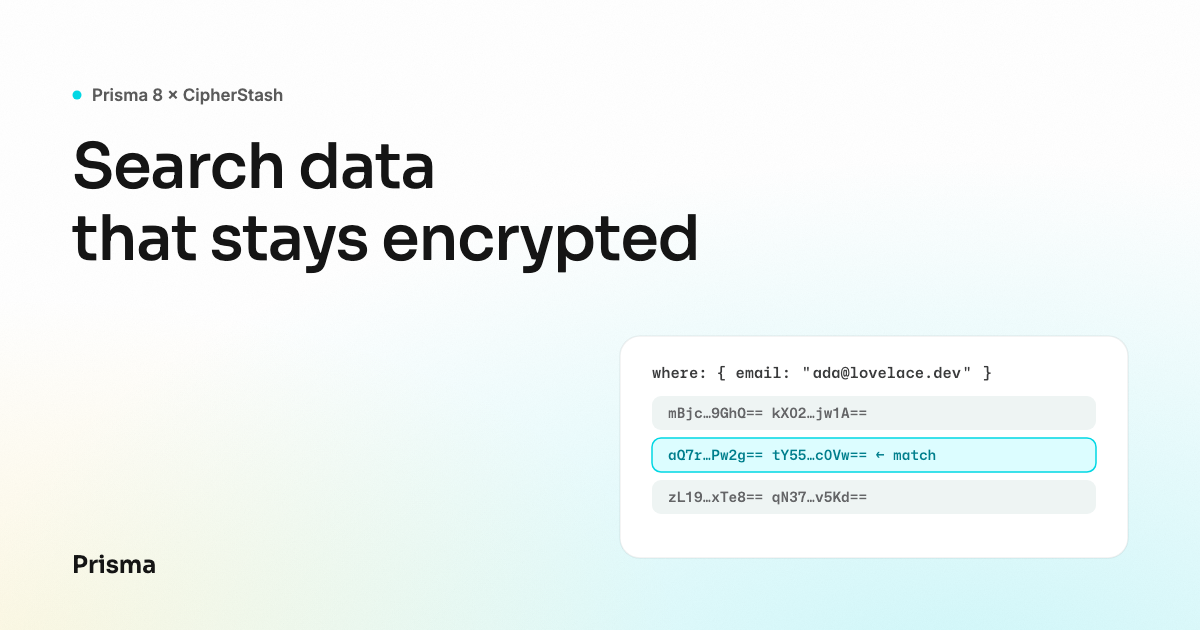
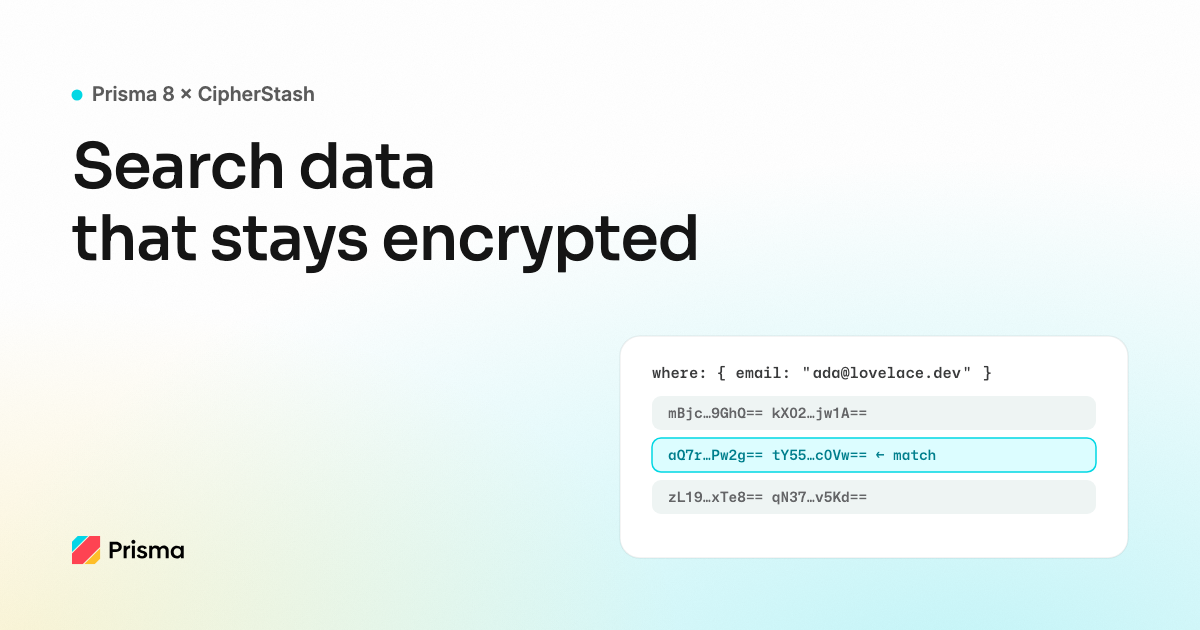
covers: in-situ learnings — lockup sign-off, thumbnail legibility, dual-surface
Reviewing the seven covers inside the blog grid (light and dark)
surfaced rules the skill now encodes: covers render ~400px wide beside
the post's real title on both white and ink cards, so the headline must
be a compressed thesis (never the title restated), kickers are 20px or
omitted, critical elements stay inside a 72px crop-safe margin that
survives the cards' 16:9 object-cover crop, washes run a step stronger
so artwork carries color at small sizes and on dark, and the sign-off
is the full-color lockup, which reads at thumbnail scale where grey
wordmark text vanished.

All seven covers regenerated to the new rules: lockup inlined in the
clear corner, kickers at 20px with larger dots, wash stops +0.05.

Changed region(s): [[0.0617, 0.1206, 0.2775, 0.181], [0.0617, 0.8444, 0.1542, 0.9349]]

diff --git a/.claude/skills/content-create-hero-image/SKILL.md b/.claude/skills/content-create-hero-image/SKILL.md
@@ -43,6 +43,25 @@ Use [`README.md`](README.md) for usage and sample prompts; this `SKILL.md` is th
 Two images: a `hero` shown on the post itself, and a `meta` image for Open Graph and social
 cards. A single design may serve both files.
 
+**Contexts of use — design for all three.** A cover lives as (1) a **grid thumbnail** in the
+blog index, cropped to ~16:9 by `object-cover` and rendered ~400px wide **directly beside the
+post's real title**, on light AND dark card surfaces; (2) the full-size social/OG card; (3) the
+in-post hero. The thumbnail-next-to-title context drives the hardest rules:
+
+- **Headline**: a compressed thesis of ≤6 words, or no copy at all — never a restatement of the
+  post title it will sit beside. Across a batch, vary composition (no-copy graphic-led,
+  corner-stripe brand moment, headline+module) so adjacent covers don't read as one template.
+- **Kicker**: ≥20px with a ≥5.5px dot, or omit it — a 17px kicker is noise at thumbnail scale.
+- **Sign-off**: prefer the **full-color lockup** (`assets/logos/prisma-lockup-color.svg`,
+  ~112px wide, inlined as a group) over the plain-text wordmark; the mark carries at thumbnail
+  scale where small grey type disappears.
+- **Crop-safe zone**: every critical element (lockup, kicker, headline, module edges) stays
+  ≥72px from every canvas edge and must survive a centered 16:9 crop of the 1200×630 frame.
+- **Dual-surface**: the artwork never theme-switches; it must read as an intentional object on
+  both white and ink (#1a1a1a) surrounds. Avoid vast empty pure-white regions — washes on
+  covers run a step stronger than page washes (~0.18–0.28 per stop) so the piece carries color
+  at small sizes and on dark.
+
 1. **Format.**
    - **hero: SVG by default** — the prisma.io/blog standard, and it suits the typographic,
      geometric heroes the blog favours. The SVG is the editable source of truth; always export
@@ -308,6 +327,11 @@ Visually inspect the rendered PNG, then verify:
 - [ ] Code/snippet text renders its spaces correctly (multi-`tspan` lines carry
       `xml:space="preserve"`).
 - [ ] Title text is legible as a small thumbnail **and** at full 1200px social-preview size.
+- [ ] The cover reads as intentional artwork on BOTH white and ink (#1a1a1a) surrounds (render
+      the PNG onto each and look); no vast empty pure-white regions; critical elements are ≥72px
+      from every edge and survive a centered 16:9 crop.
+- [ ] The headline (if any) is ≤6 words and does not restate the post title; the kicker (if any)
+      is ≥20px; the sign-off is the full-color lockup unless there's a reason for text.
 - [ ] Any logo/lockup is intentional, correctly colored, not stretched, and not paired with extra
       label text. The `Prisma` wordmark, if used, sits bottom-left with no mark beside it.
 - [ ] Any data/chart uses real numbers and the framing the prompt asked for.
